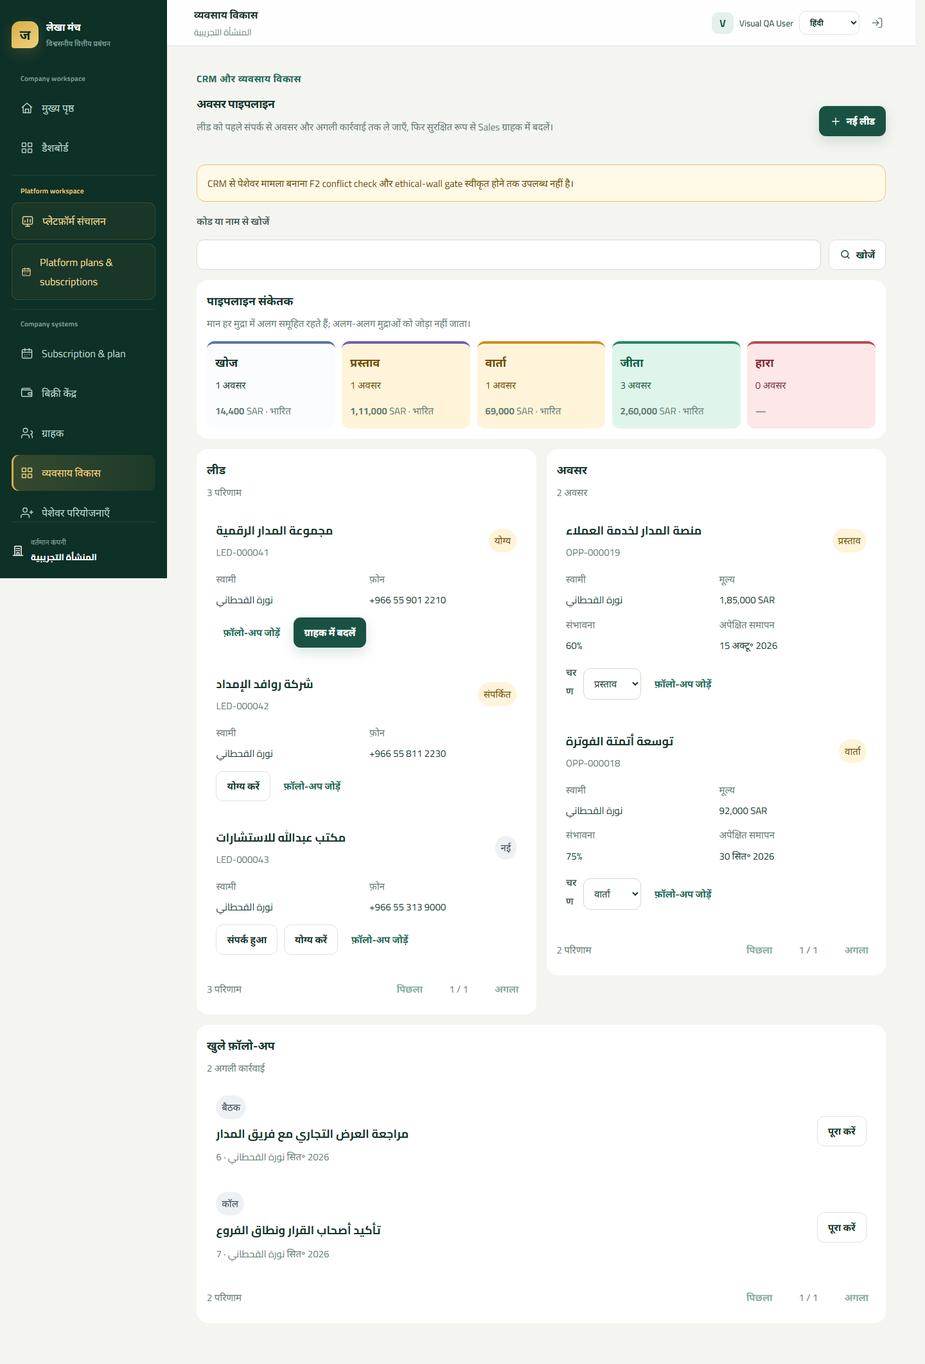
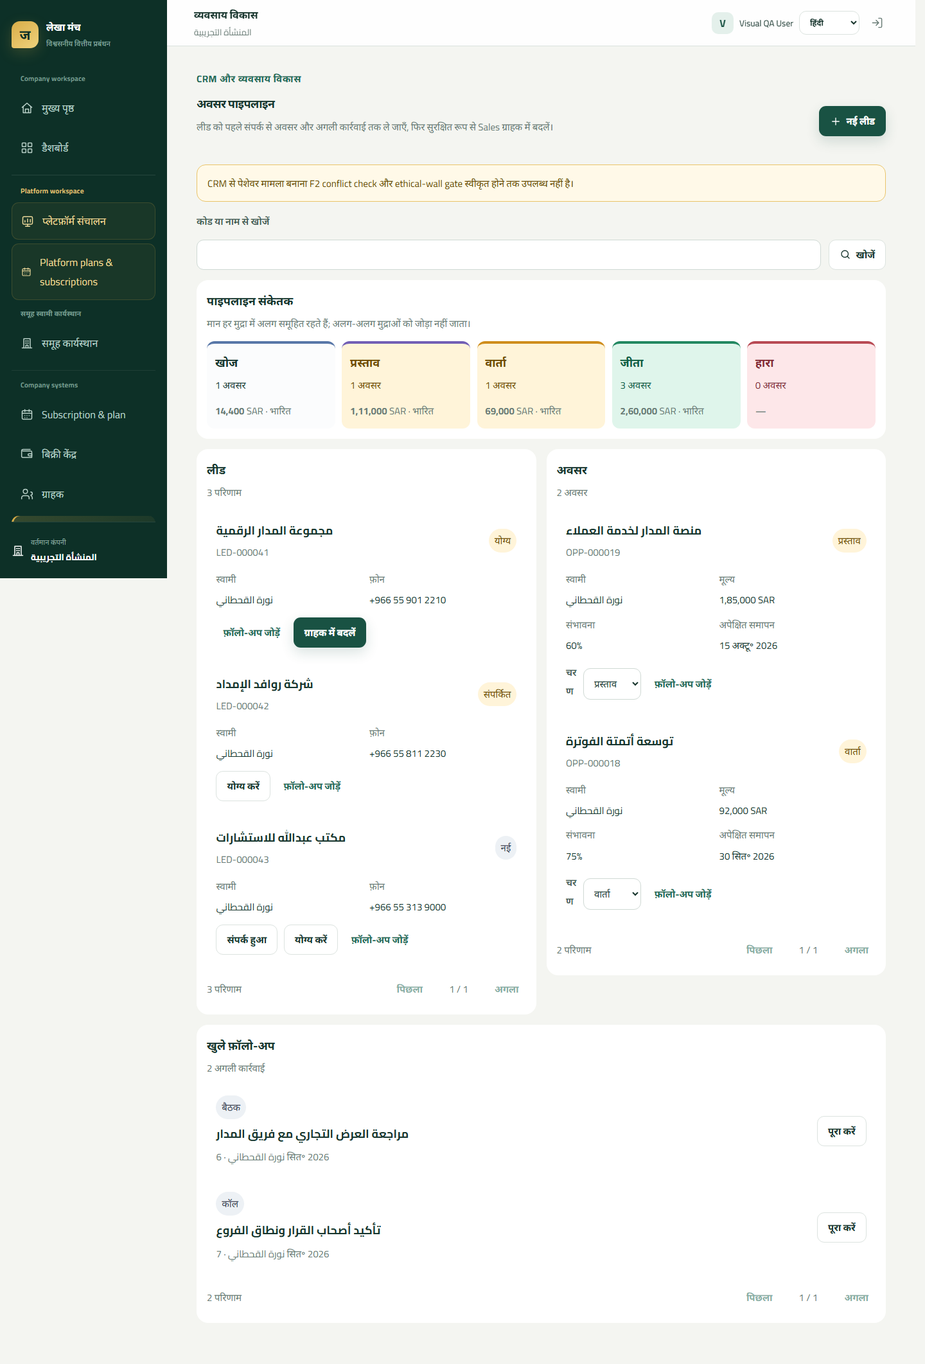
chore(release): harden wave 2 integration candidate

Changed region(s): [[0.0, 0.2176, 0.125, 0.4041]]

diff --git a/tests/visual/wave2-release-candidate.spec.ts b/tests/visual/wave2-release-candidate.spec.ts
@@ -1,0 +1,45 @@
+import { expect, test } from "@playwright/test";
+import { resolve } from "node:path";
+import { arCrm } from "../../apps/web/src/i18n/locales/crm";
+import { arEmployeeExpenses } from "../../apps/web/src/i18n/locales/employee-expenses";
+import { arOrganizationOwner } from "../../apps/web/src/i18n/locales/organization-owner";
+
+const destinations = [
+  { label: arOrganizationOwner["nav.organizationOwner"], hash: "organizationOwner", ready: ".organization-owner-page" },
+  { label: arCrm["nav.crm"], hash: "crm", ready: ".crm-page" },
+  { label: arEmployeeExpenses["nav.employeeExpenses"], hash: "employeeExpenses", ready: ".employee-expenses-workspace" },
+] as const;
+
+test("رحلة الموجة الثانية تبدأ من الرئيسية وتصل إلى الوحدات الثلاث", async ({ page }, testInfo) => {
+  test.skip(!["mobile-390", "desktop-1440"].includes(testInfo.project.name), "The unified Arabic release journey is verified at 390 and 1440.");
+  const runtimeErrors: string[] = [];
+  page.on("pageerror", (error) => runtimeErrors.push(error.message));
+  await page.addInitScript(() => window.localStorage.setItem("mcap.locale", "ar"));
+  await page.goto("/?qa=wave2-release-candidate#home");
+  await expect(page.locator("html")).toHaveAttribute("lang", "ar");
+  await expect(page.locator("html")).toHaveAttribute("dir", "rtl");
+  await expect(page.locator(".system-home-page")).toBeVisible();
+
+  for (const destination of destinations) {
+    const card = page.locator("button.system-card").filter({ hasText: destination.label });
+    await expect(card).toBeVisible();
+    await card.click();
+    await expect(page).toHaveURL(new RegExp(`#${destination.hash}$`));
+    await expect(page.locator(destination.ready)).toBeVisible();
+    await expect(page.locator(`${destination.ready} .loading`)).toHaveCount(0);
+    const mobileMenu = page.getByRole("button", { name: "فتح القائمة" });
+    if (await mobileMenu.isVisible()) await mobileMenu.click();
+    await page.locator(".sidebar nav button").filter({ hasText: "الرئيسية" }).click();
+    await expect(page).toHaveURL(/#home$/u);
+    await expect(page.locator(".system-home-page")).toBeVisible();
+  }
+
+  expect(await page.evaluate(() => document.documentElement.scrollWidth <= document.documentElement.clientWidth + 1)).toBe(true);
+  expect(runtimeErrors).toEqual([]);
+  await page.evaluate(async () => { await document.fonts.ready; });
+  await page.screenshot({
+    path: resolve("docs/visual-qa", `wave2-release-candidate-ar-${testInfo.project.name}.png`),
+    fullPage: true,
+    animations: "disabled",
+  });
+});

diff --git a/apps/web/src/i18n/locales/organization-owner.ts b/apps/web/src/i18n/locales/organization-owner.ts
@@ -1,5 +1,6 @@
 export const arOrganizationOwner = {
   "nav.organizationOwner": "مساحة المجموعة",
+  "home.module.organizationOwner": "قارن شركات المجموعة المصرح بها وانتقل بينها من دون دمج أرصدتها أو صلاحياتها.",
   "app.organizationWorkspace": "مساحة مالك المجموعة",
   "app.organizationScope": "نطاق المجموعة المصرّح",
   "organization.kicker": "عضوية المجموعة",
@@ -58,6 +59,7 @@ export const arOrganizationOwner = {
 
 export const enOrganizationOwner: Record<keyof typeof arOrganizationOwner, string> = {
   "nav.organizationOwner": "Group workspace",
+  "home.module.organizationOwner": "Compare authorized group companies and switch between them without combining balances or permissions.",
   "app.organizationWorkspace": "Group owner workspace",
   "app.organizationScope": "Authorized group scope",
   "organization.kicker": "Organization membership",
@@ -116,6 +118,7 @@ export const enOrganizationOwner: Record<keyof typeof arOrganizationOwner, strin
 
 export const urOrganizationOwner: Record<keyof typeof arOrganizationOwner, string> = {
   "nav.organizationOwner": "گروپ ورک اسپیس",
+  "home.module.organizationOwner": "مجاز گروپ کمپنیوں کا موازنہ کریں اور بیلنس یا اجازتیں یکجا کیے بغیر ان کے درمیان جائیں۔",
   "app.organizationWorkspace": "گروپ مالک ورک اسپیس",
   "app.organizationScope": "مجاز گروپ دائرہ",
   "organization.kicker": "تنظیمی رکنیت",
@@ -174,6 +177,7 @@ export const urOrganizationOwner: Record<keyof typeof arOrganizationOwner, strin
 
 export const hiOrganizationOwner: Record<keyof typeof arOrganizationOwner, string> = {
   "nav.organizationOwner": "समूह कार्यस्थान",
+  "home.module.organizationOwner": "अधिकृत समूह कंपनियों की तुलना करें और शेष या अनुमतियाँ मिलाए बिना उनके बीच जाएँ।",
   "app.organizationWorkspace": "समूह स्वामी कार्यस्थान",
   "app.organizationScope": "अधिकृत समूह दायरा",
   "organization.kicker": "संगठन सदस्यता",

diff --git a/tests/visual/employee-expenses.spec.ts b/tests/visual/employee-expenses.spec.ts
@@ -29,7 +29,8 @@ const localeDirections = {
 } as const;
 
 for (const [locale, direction] of Object.entries(localeDirections)) {
-  test(`employee expenses is complete and contained in ${locale}`, async ({ page }) => {
+  test(`employee expenses is complete and contained in ${locale}`, async ({ page }, testInfo) => {
+    test.skip(!["mobile-390", "desktop-1440"].includes(testInfo.project.name), "Employee expense evidence is maintained at 390 and 1440.");
     const runtimeErrors: string[] = [];
     page.on("pageerror", (error) => runtimeErrors.push(error.message));
     await page.addInitScript((selectedLocale) => {
@@ -43,5 +44,11 @@ for (const [locale, direction] of Object.entries(localeDirections)) {
     await expect(page.locator(".employee-expense-ready")).toBeVisible();
     expect(await page.evaluate(() => document.documentElement.scrollWidth <= document.documentElement.clientWidth + 1)).toBe(true);
     expect(runtimeErrors).toEqual([]);
+    await page.evaluate(async () => { await document.fonts.ready; });
+    await page.screenshot({
+      path: resolve("docs/visual-qa", `employee-expenses-${locale}-${testInfo.project.name}.png`),
+      fullPage: true,
+      animations: "disabled",
+    });
   });
 }

diff --git a/apps/web/src/App.tsx b/apps/web/src/App.tsx
@@ -390,7 +390,12 @@ export default function App() {
           <Suspense key={`${user.id}:${company?.id ?? "platform"}`} fallback={<div className="loading"><Spinner /><span>{t("app.loadingModule")}</span></div>}>
             {activeView === "home" && <>
               <SubscriptionUpgradeHome dismissals={subscriptionDismissals} onOpenSubscription={() => navigate('subscription')} />
-              <SystemHomePage onNavigate={navigate} onOpenSetupTarget={navigateRoute} platformOperator={platformOperator === true} />
+              <SystemHomePage
+                onNavigate={navigate}
+                onOpenSetupTarget={navigateRoute}
+                platformOperator={platformOperator === true}
+                organizationWorkspace={organizationWorkspace === true}
+              />
             </>}
             {activeView === "dashboard" && <DashboardPage onNavigate={navigate} />}
             {activeView === "organizationOwner" && organizationWorkspace && <OrganizationOwnerPage onSwitchCompany={switchFromOrganization} notify={notify} />}

diff --git a/tests/e2e/crm.spec.ts b/tests/e2e/crm.spec.ts
@@ -16,6 +16,7 @@ test("lead to opportunity to next action to safe customer conversion", async ({ 
     if (path === "/auth/companies") return route.fulfill({ json: { data: [e2eCompany] } });
     if (path === "/auth/me") return route.fulfill({ json: authMeResponse(["crm.view", "crm.manage", "crm.activities.manage", "crm.convert"], ["SALES", "HUMAN_RESOURCES"]) });
     if (path === "/platform/capabilities") return route.fulfill({ json: { platformOperations: false } });
+    if (path === "/organizations/workspaces") return route.fulfill({ json: { data: [] } });
     if (path === "/auth/context") return route.fulfill({ status: 204, body: "" });
     if (request.method() !== "GET") commandHeaders.push(request.headers()["idempotency-key"] ?? "");
     if (path === "/crm/options") return route.fulfill({ json: { owners: [owner], currencies: [{ id: "1", code: "SAR", nameAr: "ريال سعودي", decimals: 2 }], customers: [{ id: "9", code: "CUS-000009", nameAr: "شركة قائمة", nameEn: "Existing Co" }] } });

diff --git a/apps/web/src/SystemHomePage.tsx b/apps/web/src/SystemHomePage.tsx
@@ -17,10 +17,12 @@ export function SystemHomePage({
   onNavigate,
   onOpenSetupTarget,
   platformOperator,
+  organizationWorkspace = false,
 }: {
   onNavigate: (view: View) => void;
   onOpenSetupTarget?: (target: RetailSetupTarget) => void;
   platformOperator?: boolean;
+  organizationWorkspace?: boolean;
 }) {
   const { t } = useI18n();
   const { moduleSet, permissionSet, selectedCompany, user } = useAuthorization();
@@ -29,6 +31,7 @@ export function SystemHomePage({
     permissionSet,
     hasSelectedCompany: Boolean(selectedCompany),
     platformOperations: platformOperator === true,
+    organizationWorkspace,
   };
   const groups = visibleSystemGroups(access);
   const visible = visibleNavigationItems(access);

diff --git a/apps/web/src/app-navigation.ts b/apps/web/src/app-navigation.ts
@@ -217,7 +217,7 @@ export const systemGroups: SystemGroup[] = [
     key: "administration",
     title: "home.group.administration",
     description: "home.group.administrationDescription",
-    modules: navigationItems.filter((item) => ["subscription", "imports", "admin", "audit", "security", "settings"].includes(item.view))
+    modules: navigationItems.filter((item) => ["organizationOwner", "subscription", "imports", "admin", "audit", "security", "settings"].includes(item.view))
       .map((item) => ({ ...item, description: `home.module.${item.view}` as TranslationKey })),
   },
 ];

diff --git a/docs/release/WAVE2_RELEASE_CANDIDATE_20260905_AR.md b/docs/release/WAVE2_RELEASE_CANDIDATE_20260905_AR.md
@@ -1,0 +1,77 @@
+# مرشح تكامل Wave 2 — 5 سبتمبر 2026
+
+## الحالة والنطاق
+
+هذا مرشح محلي غير منشور على الفرع
+`integration/wave2-release-candidate-20260905` فوق Staging
+`4c254b3abe934821ad323ec41a7451a7341bc963`. دُمجت رؤوس المالكين التالية فقط:
+
+- CRM: `b05808d`.
+- Organization: `3b772e36d29c2d0ace952e9cbaf37dbaf03f76c9`.
+- Employee Expenses: `a9999871a22fea56ae5f9c36977f7a78c4ada873`.
+
+كانت الرؤوس الثلاثة مبنية على الشجرة المشتركة `12f5e074`، وهي مطابقة لشجرة خط
+Staging الحالي؛ لذلك أُخذ commit الشريحة النهائية لكل مالك ولم تُكرر السلسلة المشتركة.
+لم يحدث Push أو PR أو Deploy.
+
+## حدود الملكية المثبتة
+
+- CRM ينشئ/يقرأ العميل من خلال منافذ Sales ولا يكتب `Customer` مباشرة، ولا ينشئ
+  مشروعًا أو قضية قبل اكتمال فحص تعارض المصالح F2.
+- أدوار Organization (`OWNER/ADMIN/VIEWER`) مستقلة عن صلاحيات الشركة وعن صلاحيات
+  مشغل المنصة. تعرض اللوحة مؤشرات كل شركة بعملة أساسها ولا تجمع قوائم مالية موحدة.
+- Employee Expenses يملك المطالبة فقط وينتهي عند `READY_FOR_PAYMENT`; لا ينشئ
+  `Payment` أو ذمة أو مستندًا محاسبيًا أو أثر Ledger.
+
+## العقد والترحيلات
+
+- OpenAPI الموحد: `1.48.0`، بعدد 349 عملية و181 جسم طلب و2318 جسم استجابة.
+- أعيد توليد `openapi-request-guards.ts` من `packages/contracts/openapi.yaml`، ونجح
+  فحص التقادم والتغطية.
+- ترتيب ترحيلات Wave 2: Organization رقم 68
+  (`20260904120000_organization_membership_owner_workspace`)، ثم Employee Expenses
+  رقم 69 (`20260904150000_employee_expense_claims`)، ثم CRM رقم 70
+  (`20260904193000_crm_business_development_vertical`).
+
+## تحقق المرشح المحلي
+
+| البوابة | النتيجة |
+|---|---|
+| Prisma validate / generate | ناجح على المخطط الموحد |
+| TypeScript: API source/tests وWeb وE2E | ناجح |
+| Build: API وWeb | ناجح؛ يوجد تحذير حجم chunk موضح أدناه |
+| Web unit tests | 654/654 ناجحة في 46 ملفًا |
+| API unit/architecture tests | 1229 ناجحة، 161 متجاوزة بشروط DB، في 126 ملفًا ناجحًا و40 ملفًا متجاوزًا |
+| اختبارات الوحدات الثلاث المركزة | 28 ناجحة و4 متجاوزة بشروط DB؛ 10 ملفات ناجحة وملفان متجاوزان |
+| Infra | 324 ناجحة، وحالة Linux-native واحدة متجاوزة، بلا فشل |
+| OpenAPI guards / route inventory | ناجح |
+| Redocly 2.46.2 | ناجح مع تحذير واحد لمكوّن قديم غير مستخدم |
+| i18n / UI contract | ناجح؛ 31 عنوان صفحة و68 منطقة جدول |
+| Playwright CRM / Organization / Employee / الرحلة الموحدة | ناجح عند 390 و1440 |
+
+رحلة العرض العربية تبدأ من `#home` وتفتح مساحة مالك المجموعة وCRM ومصروفات
+الموظفين ثم تعود إلى الرئيسية بين الوحدات. أدلة اللغات `ar/en/ur/hi` محفوظة في
+`docs/visual-qa` بأسماء `crm-*` و`organization-owner-*` و`employee-expenses-*`،
+وأدلة الرحلة الموحدة باسم `wave2-release-candidate-ar-*`.
+
+## بوابة قاعدة البيانات المطلوبة في CI
+
+لا تتوفر قاعدة بيانات محلية لهذا الـworktree، لذلك لم تُشغّل الحالات المشروطة. قبل
+الدمج أو أي نشر يجب أن تنجح على MariaDB 10.11 وMySQL 8.4 لكل محرك:
+
+1. تطبيق جميع الترحيلات على قاعدة فارغة ثم Seed واختبارات التكامل.
+2. ترقية نسخة ممثلة لخط Staging عبر الترحيلات 68 ثم 69 ثم 70، مع فحص العزل والـbackfill.
+3. اختبار rollback المحروس بالترتيب العكسي، وإثبات رفضه عند وجود سجل أعمال أو تدقيق.
+
+## مخاطر التسليم المفتوحة
+
+- بوابة fresh/upgrade/rollback واختبارات DB ما زالت مطلوبة في CI، وهي مانع إصدار حتى
+  نجاحها على المحركين.
+- يبني Vite بنجاح لكنه يحذر من chunk باسم `employee-expenses` حجمه نحو 539 kB قبل
+  الضغط؛ يوصى بتتبعه كتحسين أداء قبل الإنتاج إن لم تخفضه سياسة التقسيم النهائية.
+- Redocly يحذر من المكوّن القديم غير المستخدم `PosCheckoutRecoveryResult`; لا يؤثر
+  في صحة العقد لكنه دين تنظيف غير مرتبط بـWave 2.
+- اللقطات تستخدم خادم Visual QA وfixtures حتمية؛ لا تستبدل رحلة بيئة متصلة بقاعدة
+  البيانات بعد نجاح بوابة CI.
+
+هذا التقرير لا يصرح بالنشر، ولم يُنشأ Push أو PR أو Deploy.

diff --git a/docs/implementation-status.md b/docs/implementation-status.md
@@ -2,8 +2,13 @@
 
 آخر تحديث: 5 سبتمبر 2026
 
+مرشح Wave 2 محلي فوق Staging `4c254b3abe934821ad323ec41a7451a7341bc963`: دُمجت
+شرائح CRM وOrganization وEmployee Expenses بعقد OpenAPI موحد `1.48.0` وترحيلات
+68 و69 و70، مع رحلة عربية موحدة من الصفحة الرئيسية. لا Push ولا PR ولا نشر.
+[تقرير المرشح وبوابات التسليم](release/WAVE2_RELEASE_CANDIDATE_20260905_AR.md).
+
 تحديث محلي W2-P2 فوق `12f5e0749701b5ba286c760b257997a1759d21db`: نُفذت عضوية
-`Organization` ومساحة مالك المجموعة بعقد `1.47.0` والترحيل 68، من دون Push أو نشر.
+`Organization` ومساحة مالك المجموعة؛ أصبح عقدها جزءًا من العقد الموحد `1.48.0` والترحيل 68، من دون Push أو نشر.
 نجحت حزمة API غير المعتمدة على قاعدة خارجية `1216/1216` وحزمة Web `654/654`
 والـRouter والعقد والترجمة والبناء والفحص البصري في اللغات الأربع على 390 و1440.
 أضيف اختبار MariaDB/MySQL معزول للعزل وسباق آخر مالك، لكنه لم يشغّل
@@ -1232,7 +1237,7 @@
   إدارة المشاهدين وحدهم، ويحمي الخادم آخر مالك نشط داخل معاملة `Serializable`.
 - [x] إضافة `OrganizationAuditLog` منفصل عن سجل الشركة، وتوسيع Audit append port
   باتحاد نطاقين متنافيين، وتسجيل تجهيز وإضافة وتعديل العضوية ذريًا.
-- [x] إضافة OpenAPI `1.47.0` وحراس الطلب المولدة، وMigration 68 مع backfill حتمي
+- [x] إضافة عقود Organization إلى OpenAPI الموحد `1.48.0` وحراس الطلب المولدة، وMigration 68 مع backfill حتمي
   وrollback يرفض محو أثر تشغيلي.
 - [x] نجح TypeScript للخادم والواجهة والاختبارات؛ حزمة API غير المعتمدة على قاعدة
   خارجية `1216/1216` (وتجاوزت 158 حالة DB مشروطة)، وحزمة Web `654/654`، وبينها
@@ -1242,6 +1247,30 @@
 - [ ] اختبار قاعدة البيانات المشروط يغطي عزل شركتي المجموعة والشركة الأجنبية وخصوصية
   إضافة العضو وسباق خفض آخر مالكين؛ ينتظر MariaDB 10.11 وMySQL 8.4 في CI لعدم توفر
   `DATABASE_URL` محليًا. لم يحدث Push أو Deploy.
+
+## المرحلة 92 — مطالبات مصروفات الموظفين E2 (منفذة محليًا)
+
+- [x] إضافة مطالبة الموظف وبنودها ولقطتها ودورة `DRAFT → AWAITING_APPROVAL →
+  READY_FOR_PAYMENT` مع Maker/Checker عبر Approvals وعزل الشركة والنسخة المتفائلة.
+- [x] إبقاء ملكية الموظف لدى HR ومركز التكلفة لدى Core Accounting والعملة لدى Tenant
+  عبر Ports، من دون كتابة مباشرة في سياقات المالكين.
+- [x] تثبيت الحد المالي: تنتهي الشريحة عند الجاهزية للصرف ولا تنشئ `Payment` أو
+  `PayableItem` أو مستندًا محاسبيًا أو قيد Ledger.
+- [x] إضافة Migration 69 (`20260904150000_employee_expense_claims`) والـOpenAPI
+  والحراس والواجهة والترجمات الأربع واختبارات الوحدة والمعمارية والرحلات البصرية.
+- [ ] تبقى اختبارات القاعدة المشروطة ومصفوفة الترحيل والرجوع على MariaDB 10.11 وMySQL
+  8.4 بوابة CI إلزامية قبل الدمج أو النشر.
+
+## المرحلة 93 — مرشح تكامل Wave 2 (منفذ محليًا)
+
+- [x] دمج CRM وOrganization وEmployee Expenses فوق Staging `4c254b3` بعقد OpenAPI
+  `1.48.0`: 349 عملية و181 جسم طلب و2318 جسم استجابة مولدًا.
+- [x] تثبيت ترتيب الترحيلات: Organization رقم 68، Employee Expenses رقم 69، CRM رقم
+  70، وإعادة توليد الحراس من مصدر العقد بعد حل التعارضات.
+- [x] إظهار الوحدات الثلاث في رحلة عربية موحدة من الصفحة الرئيسية، والتحقق في اللغات
+  الأربع عند عرضي 390 و1440.
+- [ ] لا يعد هذا المرشح إذنًا للنشر؛ لم يحدث Push أو PR أو Deploy، وتبقى بوابة قاعدة
+  البيانات والترقية والرجوع مطلوبة في CI.
 
 ## ترحيلات قاعدة البيانات
 

diff --git a/docs/architecture/ORGANIZATION_MEMBERSHIP_OWNER_WORKSPACE_AR.md b/docs/architecture/ORGANIZATION_MEMBERSHIP_OWNER_WORKSPACE_AR.md
@@ -61,7 +61,7 @@ last_updated: "2026-09-05"
 - `GET|POST /organizations/{organizationId}/members`
 - `PATCH /organizations/{organizationId}/members/{userId}`
 
-عقد OpenAPI `1.47.0` هو مصدر أشكال الطلب والاستجابة. تستخدم الكتابات CSRF، وتستخدم
+عقد OpenAPI الموحد `1.48.0` هو مصدر أشكال الطلب والاستجابة. تستخدم الكتابات CSRF، وتستخدم
 `version` متفائلة داخل معاملة `Serializable` ذات retry. يمنع invariant آخر مالك داخل
 المعاملة، وتسجل الإضافة والتعديل في `OrganizationAuditLog` قبل نجاحها.
 
